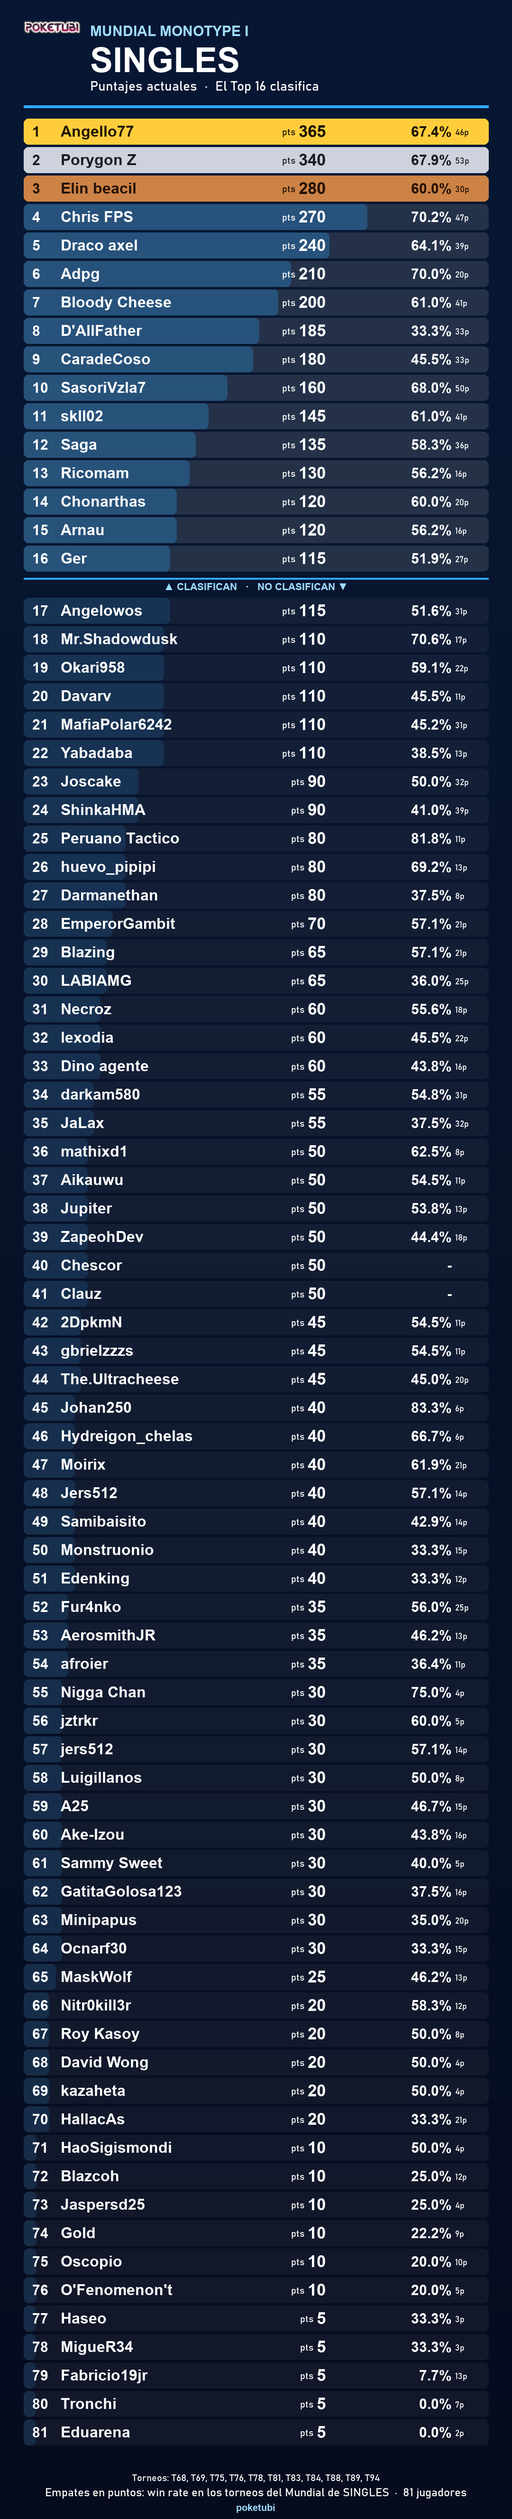
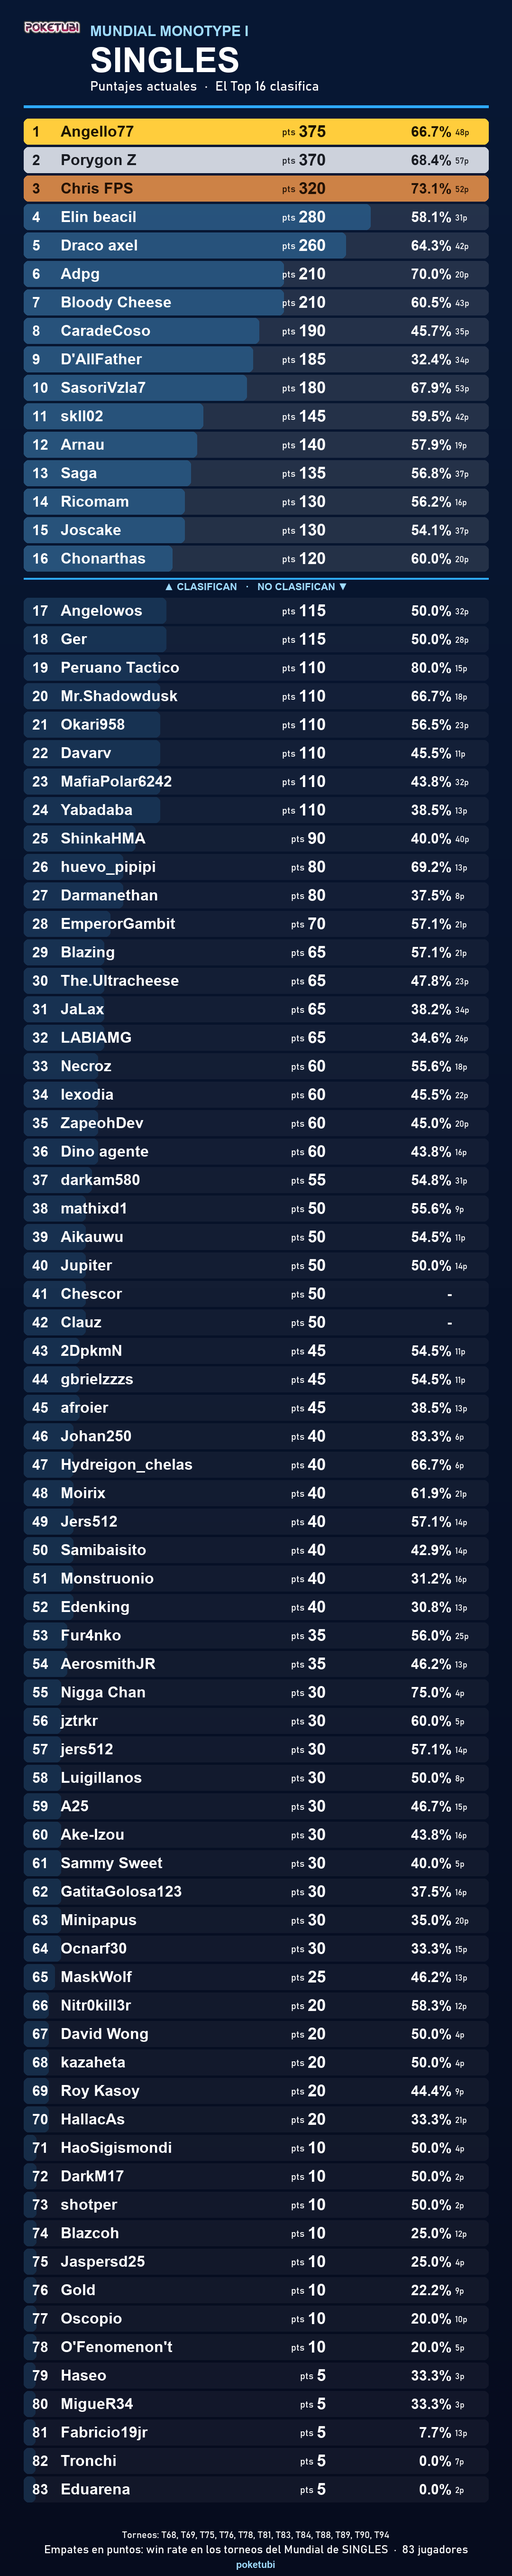
Monotype: posiciones de los torneos 90 y 91 y rankings actualizados

Changed region(s): [[0.0306, 0.0, 0.9472, 1.0], [0.7944, 0.5282, 0.9167, 0.9944]]

diff --git a/vistas/mundial_info.py b/vistas/mundial_info.py
@@ -381,7 +381,7 @@ MONOTYPE1_TIPOS = {
     74: "GRANDE",75: "SPECIAL",76: "GRANDE",78:"GRANDE",79:"MEDIANO",80:"GRANDE"
     ,81:"GRANDE",82:"MEDIANO",83:"GRANDE",77:"SPECIAL",84: "GRANDE",85:"MEDIANO",86:"SPECIAL"
     ,87:"MEDIANO",88:"SPECIAL",
-    89:"MEDIANO" ,92:"MEDIANO"  # CHAMPIONS BSS M-C, 16 jugadores
+    89:"MEDIANO",90:"GRANDE",91:"SPECIAL" ,92:"MEDIANO"  # CHAMPIONS BSS M-C, 16 jugadores
 ,93:"MEDIANO" ,94:"MEDIANO" }
 MONOTYPE1_POSICIONES = {
     # >>> Estructura: N_Torneo → { "FORMATO": {jugador: "Posición", ...}, ... }
@@ -981,7 +981,84 @@ MONOTYPE1_POSICIONES = {
             "Fur4nko":         "Top8",
             }} ,
 
+90: {
+              "SINGLES": {
+                "Chris FPS":   "Campeón",
+                "Joscake": "Subcampeón",
+                "Peruano Tactico":     "Top4",
+                "Porygon Z":     "Top4",
         
+                "Arnau":     "Top8",
+                "Draco axel":     "Top8",
+                "SasoriVzla7":     "Top8",
+                "The.Ultracheese":     "Top8",
+        
+        
+                "afroier":     "Top16",
+                "Angello77":     "Top16",
+                "Bloody Cheese":     "Top16",
+                "CaradeCoso":     "Top16",
+                "DarkM17":     "Top16",
+                "JaLax":     "Top16",
+                "shotper":     "Top16",
+                "ZapeohDev":     "Top16",
+        
+                }} 
+
+
+        ,
+
+                  91: {
+              "VGC": {
+       "Akaru":   "Campeón",
+      "Wiwi": "Subcampeón",
+        "Jayr":     "Top4",
+        "SasoriVzla7":     "Top4",
+
+        "Fur4nko":     "Top8",
+        "MilanesaVGC":     "Top8",
+        "mtdrumr":     "Top8",
+        "Okari958":     "Top8",
+
+        "Chris FPS":     "Top16",
+        "darkam580":     "Top16",
+        "EmperorGambit":     "Top16",
+        "Ger":     "Top16",
+        "mathixd1":     "Top16",
+        "Moirix":     "Top16",
+        "Monstruonio":     "Top16",
+        "ShinkaHMA":     "Top16",
+
+        "Joscake":     "Top24",
+        "skll02":     "Top24",
+        "Necroz":     "Top24",
+        "A25":     "Top24",
+        "David Wong":     "Top24",
+        "Chonarthas":     "Top24",
+        "Saga":     "Top24",
+        "Peruano Tactico":     "Top24",
+
+        "Bloody Cheese":     "Top32",
+        "Lolo":     "Top32",
+        "Yabadaba":     "Top32",
+        "The Glenko":     "Top32",
+        "Ricomam":     "Top32",
+        "JaLax":     "Top32",
+        "Draco axel":     "Top32",
+        "Porygon Z":     "Top32",
+
+
+        "MafiaPolar6242":     "Top40",
+        "Tronchi":     "Top40",
+        "Chechin":     "Top40",
+        "LABIAMG":     "Top40",
+        "Pandu":     "Top40",
+        "Angelowos":     "Top40",
+        "The.Ultracheese":     "Top40",
+        "O'Fenomenon't":     "Top40",
+        
+        
+                }}  ,
                  92: {
       "DOBLES": {
         "EmperorGambit":   "Campeón",
